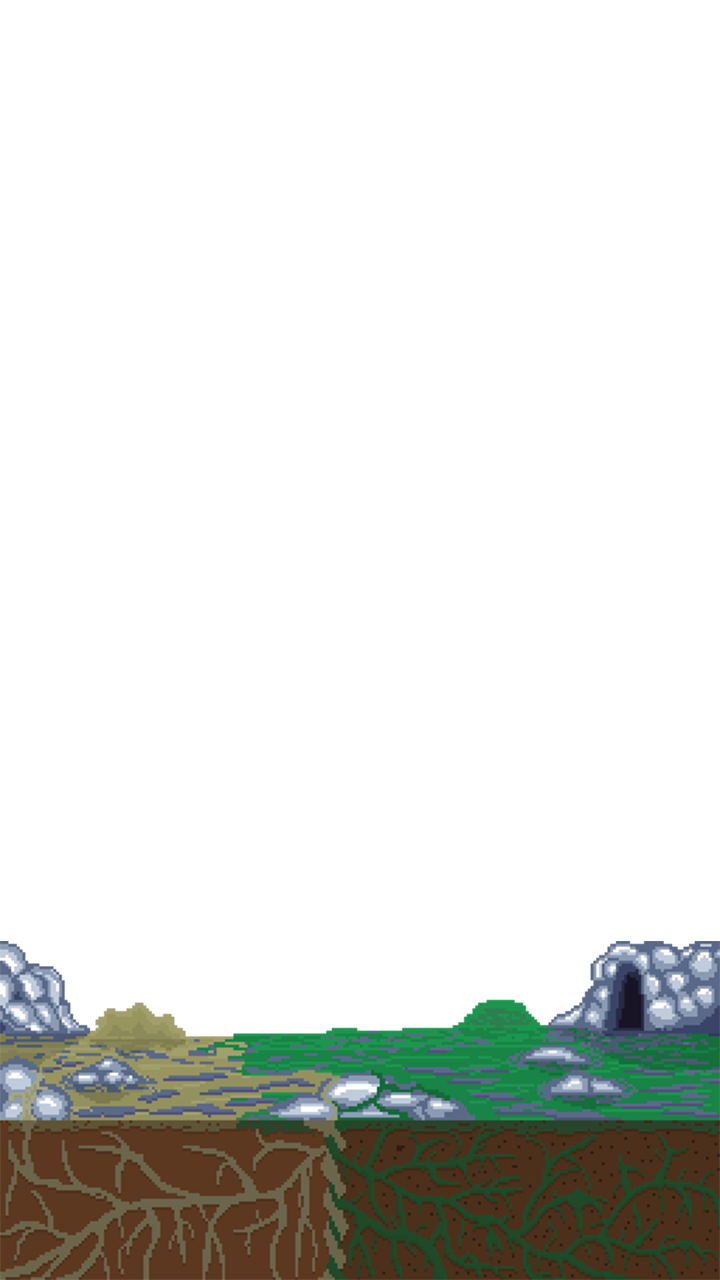
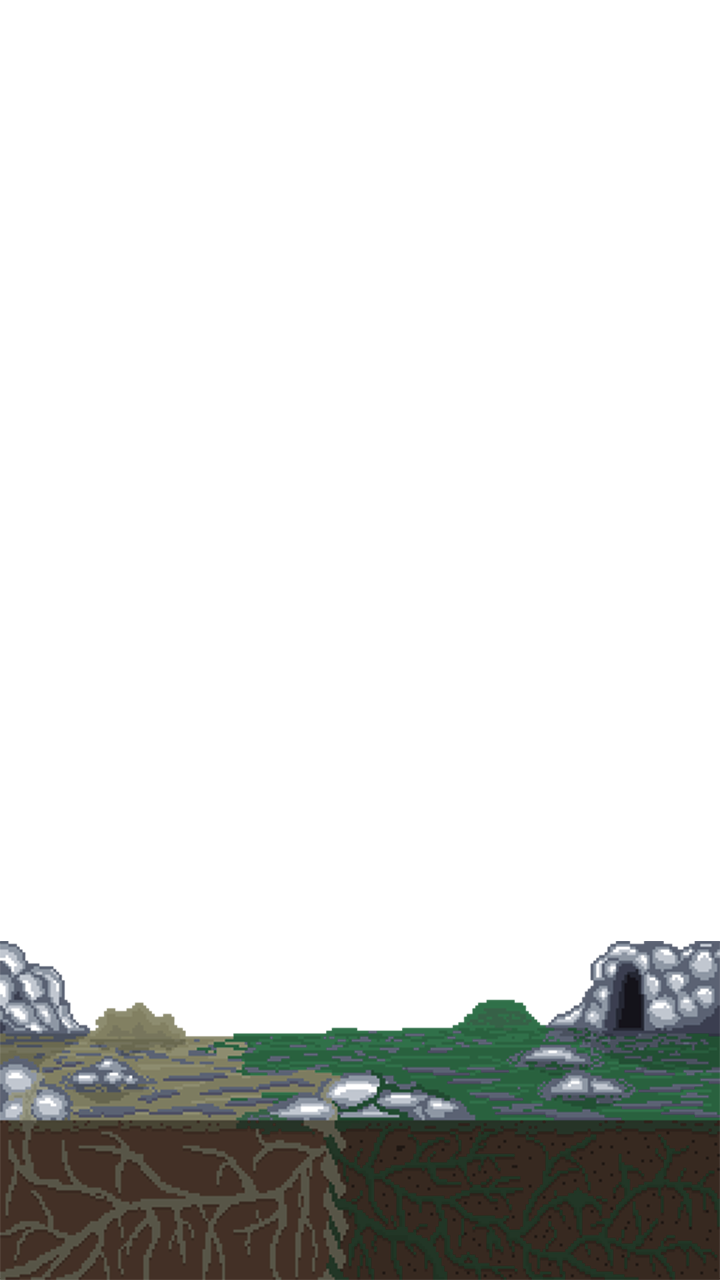
-changed earth texture -added 2 new monsters: dragon, octopus -now you can use 4 npcs

Changed region(s): [[0.0, 0.7812, 1.0, 1.0]]

diff --git a/core/src/com/mygdx/game/view/GameplayScreen.java b/core/src/com/mygdx/game/view/GameplayScreen.java
@@ -15,6 +15,7 @@ import com.mygdx.game.model.Hero;
 import com.mygdx.game.model.Monster;
 import com.mygdx.game.model.Npc;
 import com.mygdx.game.model.NpcList;
+import com.mygdx.game.view.gameObjectViews.BackgroundView;
 import com.mygdx.game.view.gameObjectViews.GameObjectView;
 import com.mygdx.game.view.gameObjectViews.HeroView;
 import com.mygdx.game.view.gameObjectViews.MonsterView;
@@ -25,7 +26,7 @@ import java.util.ArrayList;
 
 public class GameplayScreen extends GameScreen {
 
-    private GameObjectView sky;
+    private BackgroundView bg;
     private GameObjectView earth;
     private HeroView heroView;
     private MonsterView monsterView;
@@ -44,23 +45,25 @@ public class GameplayScreen extends GameScreen {
     private NpcList npcs;
     private NpcViewList npcViews;
     private TotalDamage totalDamage;
+    private LevelView lvlView;
 
     public GameplayScreen(GameScreenManager gsm) {
         super(gsm);
         camera.setToOrtho(false, Main.WIDTH, Main.HEIGHT / 2f);
         earth = new GameObjectView("environment/earth.png", 1);
-        sky = new GameObjectView("environment/sky.png", 1);
+        bg = new BackgroundView();
         heroView = new HeroView("hero/Stay.png", 1);
         monsterView = new MonsterView();
         monster = new Monster(100);
         npcs = new NpcList();
         npcViews = new NpcViewList();
-        hero = new Hero(10, 1);
+        hero = new Hero(10);
         controller = new Controller(this);
         goldFont = new BitmapFont(Gdx.files.internal("gold.fnt"));
         dmgFont = new BitmapFont(Gdx.files.internal("sch_for_damage_view.fnt"));
         hpBlank = new Texture("hpBar/hpBarOut.png");
         hpLine = new Texture("hpBar/hpBarIn.png");
+        lvlView = new LevelView();
         gold = "Gold: " + getHero().getGold();
         Buttons.load();
         menuButton = new Button(Buttons.menuButton);
@@ -83,22 +86,24 @@ public class GameplayScreen extends GameScreen {
         npcViews.update(dt);
         npcs.update(monster, dt);
         totalDamage.update(hero, npcs);
+        lvlView.update(monster);
     }
 
     @Override
     public void render() {
         batch.setProjectionMatrix(camera.combined);
         batch.begin();
-        batch.draw(sky.getTexture(), 253 - sky.getTexture().getWidth() / 2, 128 - sky.getTexture().getHeight() / 2, 720, 1280);
+        batch.draw(bg.getTexture(), 0, 0, 720, 650);
         batch.draw(monsterView.getTextureRegion(), 15, 84.43f, 705.6f, 416);
         batch.draw(earth.getTexture(), 0, -70, 720, 880);
         batch.draw(heroView.getTextureRegion(), 360 - heroView.getTexture().getWidth() / 2, 118 - heroView.getTexture().getHeight() / 2, 90, 67f);
         goldFont.draw(batch, gold, 360, 624.4f, 5, 5, true);
-        batch.draw(hpBlank, Gdx.graphics.getWidth()/2-hpBlank.getWidth()*1.3f/2, 582 - hpBlank.getHeight() / 2, hpBlank.getWidth()*1.3f, hpBlank.getHeight() / 2.5f);
-        batch.draw(hpLine, Gdx.graphics.getWidth()/2-hpBlank.getWidth()*1.3f/2, 582 - hpBlank.getHeight() / 2, hpLine.getWidth()*1.3f * monster.getHp() / monster.getMaxHp(), hpLine.getHeight() / 2.5f);
+        batch.draw(hpBlank, 160, 582 - hpBlank.getHeight() / 2, hpBlank.getWidth()*1.3f, hpBlank.getHeight() / 2.5f);
+        batch.draw(hpLine, 160, 582 - hpBlank.getHeight() / 2, hpLine.getWidth()*1.3f * monster.getHp() / monster.getMaxHp(), hpLine.getHeight() / 2.5f);
         npcViews.render(batch);
         dmgFont.draw(batch, totalDamage.getAttackHeroDamage(),550,625);
         dmgFont.draw(batch, totalDamage.getAttackNpcsDamage(),550,600);
+        dmgFont.draw(batch, lvlView.getLvl(), 30, 625);
         menuButton.setBounds(Gdx.graphics.getWidth() * 0.87f, Gdx.graphics.getHeight() * 0.005f, Gdx.graphics.getWidth() * 0.12f, Gdx.graphics.getHeight() * 0.089f);
         if (!damageViews.isEmpty()) {
             for (int i = 0; i < damageViews.size(); i++) {
@@ -122,7 +127,7 @@ public class GameplayScreen extends GameScreen {
 
     @Override
     public void dispose() {
-        sky.dispose();
+        bg.dispose();
         earth.dispose();
         heroView.dispose();
     }

diff --git a/core/src/com/mygdx/game/model/Monster.java b/core/src/com/mygdx/game/model/Monster.java
@@ -2,21 +2,40 @@ package com.mygdx.game.model;
 
 public class Monster {
     int hp;
-    int maxHp=100;
-    long gold=5;
+    int maxHp = 100;
+    float gold = 1;
+    int lvl;
+    int sublvl;
 
     public Monster(int hp) {
         this.hp = hp;
+        this.lvl = 1;
+        this.sublvl = 1;
     }
 
-    public void takeDamage(int damage){
-        hp-=damage;
+    public void takeDamage(int damage) {
+        hp -= damage;
     }
 
-    public void die(){
-        maxHp*=1.1f;
-        hp=maxHp;
-        gold*=10f;
+    public void die() {
+        maxHp *= 1.1f;
+        gold *= 10f;
+        sublvl++;
+        if(sublvl == 10){
+            maxHp *= 2;
+            gold *= 1.5f;
+        }
+        else if (sublvl == 11) {
+            lvl++;
+            sublvl = 0;
+            gold /= 1.3f;
+            maxHp /= 1.5f;
+        }
+        hp = maxHp;
+    }
+
+    public int getLvl() {
+        return lvl;
     }
 
     public int getHp() {
@@ -24,7 +43,7 @@ public class Monster {
     }
 
     public long getGold() {
-        return gold;
+        return Math.round(gold);
     }
 
     public int getMaxHp() {

diff --git a/core/src/com/mygdx/game/view/gameObjectViews/NpcView.java b/core/src/com/mygdx/game/view/gameObjectViews/NpcView.java
@@ -17,26 +17,32 @@ public class NpcView extends GameObjectView {
 
 
     public NpcView(int i) {
-        stay = newTexture("npc/stay.png");
-        damage = newTexture("npc/attack.png");
-        stayAnimation();
         if(i==0){
-            x=350;
+            x=550;
             y=64;
+            stay = newTexture("npc/ghost/stay.png");
+            damage = newTexture("npc/ghost/attack.png");
+
         }
         else if(i==1){
-            x=250;
+            x=400;
             y=64;
+            stay = newTexture("npc/mirona/stay.png");
+            damage = newTexture("npc/mirona/attack.png");
         }
         else if(i==2){
-            x=150;
+            x=250;
             y=64;
+            stay = newTexture("npc/knight/stay.png");
+            damage = newTexture("npc/knight/attack.png");
         }
         else if(i==3){
-            x=50;
+            x=100;
             y=64;
+            stay = newTexture("npc/dog/stay.png");
+            damage = newTexture("npc/dog/attack.png");
         }
-
+        stayAnimation();
     }
 
     public void update(float dt) {

diff --git a/core/src/com/mygdx/game/controller/Controller.java b/core/src/com/mygdx/game/controller/Controller.java
@@ -32,7 +32,7 @@ public class Controller {
         if (!gameplayScreen.getUpgradeMenu().isOpened()) {
             if (!gameplayScreen.getMonsterView().isDead()) {
                 if (Gdx.input.justTouched()) {
-                    if (Gdx.graphics.getHeight() - Gdx.input.getY() > Gdx.graphics.getHeight() / 5) {
+                    if (Gdx.graphics.getHeight() - Gdx.input.getY() > Gdx.graphics.getHeight() / 5.7f) {
                         gameplayScreen.getHeroView().attackAnimation();
                         gameplayScreen.getMonsterView().takeDamageAnimation();
                         gameplayScreen.getHero().attack(gameplayScreen.getMonster());

diff --git a/core/src/com/mygdx/game/view/gameObjectViews/BackgroundView.java b/core/src/com/mygdx/game/view/gameObjectViews/BackgroundView.java
@@ -1,0 +1,21 @@
+package com.mygdx.game.view.gameObjectViews;
+
+import com.badlogic.gdx.graphics.g2d.TextureRegion;
+import com.mygdx.game.view.Animation;
+
+import java.util.ArrayList;
+import java.util.List;
+import java.util.Random;
+
+public class BackgroundView extends GameObjectView {
+    Random rnd = new Random();
+
+    public BackgroundView() {
+        this.objectAnimation = new Animation(new TextureRegion(newTexture("environment/bg" + rnd.nextInt(4) + ".png")), 1, 0.5f);
+    }
+
+    public void changeBg() {
+        objectAnimation.dispose();
+        changeAnimation(newTexture("environment/bg" + rnd.nextInt(4) + ".png"), 1);
+    }
+}

diff --git a/core/src/com/mygdx/game/view/gameObjectViews/MonsterView.java b/core/src/com/mygdx/game/view/gameObjectViews/MonsterView.java
@@ -21,7 +21,10 @@ public class MonsterView extends GameObjectView {
         pathList.add("skeleton");
         pathList.add("dragon");
         pathList.add("octopus");
-        path = pathList.get(rnd.nextInt(2));
+        pathList.add("plusheye");
+        pathList.add("darkknight");
+        pathList.add("demon");
+        path = pathList.get(rnd.nextInt(pathList.size()));
         stay = newTexture("monsters/" + path + "/stay.png");
         damage = newTexture("monsters/" + path + "/damage.png");
         death = newTexture("monsters/death1.png");

diff --git a/core/src/com/mygdx/game/model/Hero.java b/core/src/com/mygdx/game/model/Hero.java
@@ -2,21 +2,15 @@ package com.mygdx.game.model;
 
 public class Hero {
     int damage;
-    int lvl;
     long gold = 0;
     int damageUpgradePrice = 20;
 
-    public Hero(int damage, int lvl) {
+    public Hero(int damage) {
         this.damage = damage;
-        this.lvl = lvl;
     }
 
     public void attack(Monster target) {
         target.takeDamage(damage);
-    }
-
-    public void lvlUp() {
-        lvl++;
     }
 
     public void getMoreGold(long gold) {

diff --git a/core/src/com/mygdx/game/view/gameObjectViews/NpcViewList.java b/core/src/com/mygdx/game/view/gameObjectViews/NpcViewList.java
@@ -21,7 +21,7 @@ public class NpcViewList {
 
     public void render(SpriteBatch batch){
         for (int i : npcViews.keySet()) {
-            batch.draw(npcViews.get(i).getTextureRegion(), npcViews.get(i).getX(), npcViews.get(i).getY(), 300, 150);
+            batch.draw(npcViews.get(i).getTextureRegion(), npcViews.get(i).getX(), npcViews.get(i).getY(), 200, 170);
         }
     }
 

diff --git a/core/src/com/mygdx/game/view/LevelView.java b/core/src/com/mygdx/game/view/LevelView.java
@@ -1,0 +1,19 @@
+package com.mygdx.game.view;
+
+import com.mygdx.game.model.Monster;
+
+public class LevelView {
+    private String lvl;
+
+    public LevelView() {
+        lvl = "";
+    }
+
+    public void update(Monster monster){
+        lvl = "Level: " + monster.getLvl();
+    }
+
+    public String getLvl() {
+        return lvl;
+    }
+}
